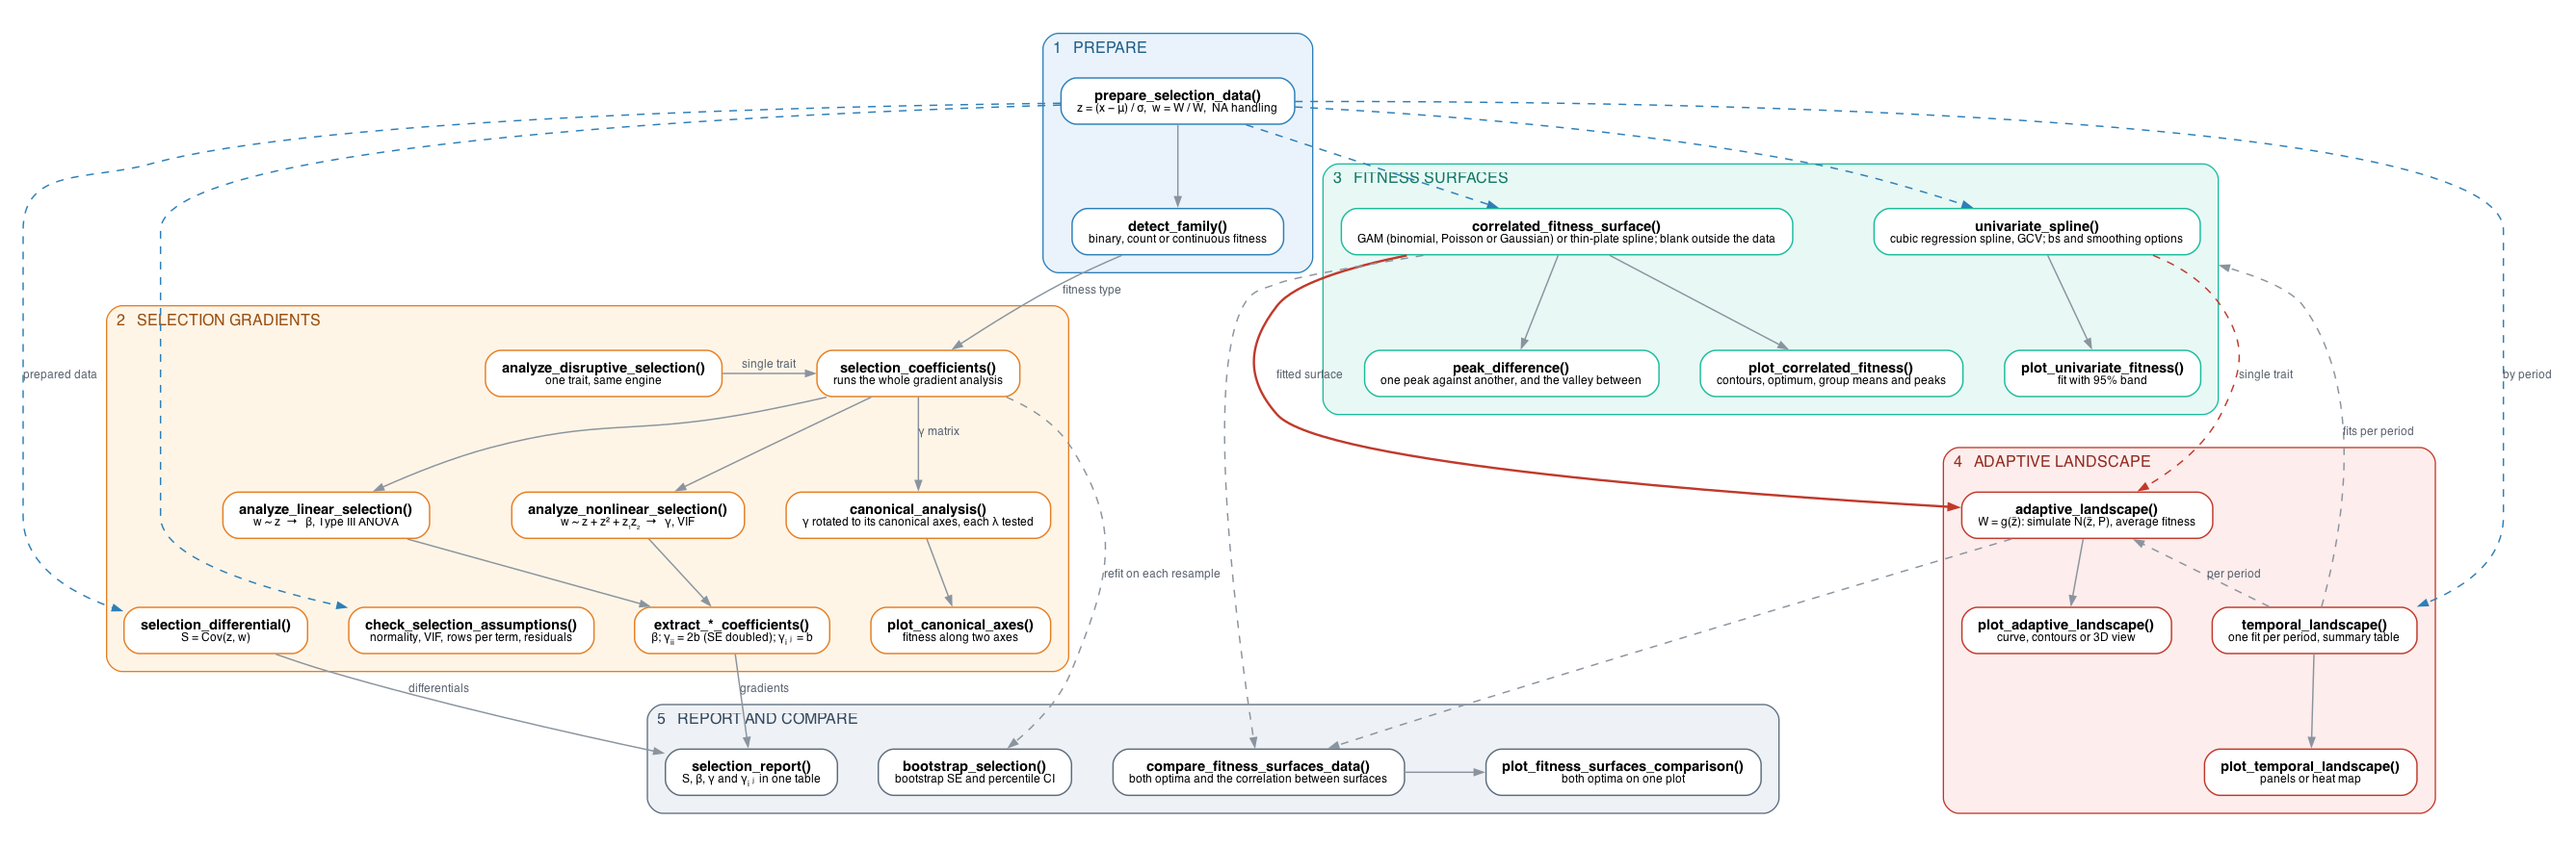
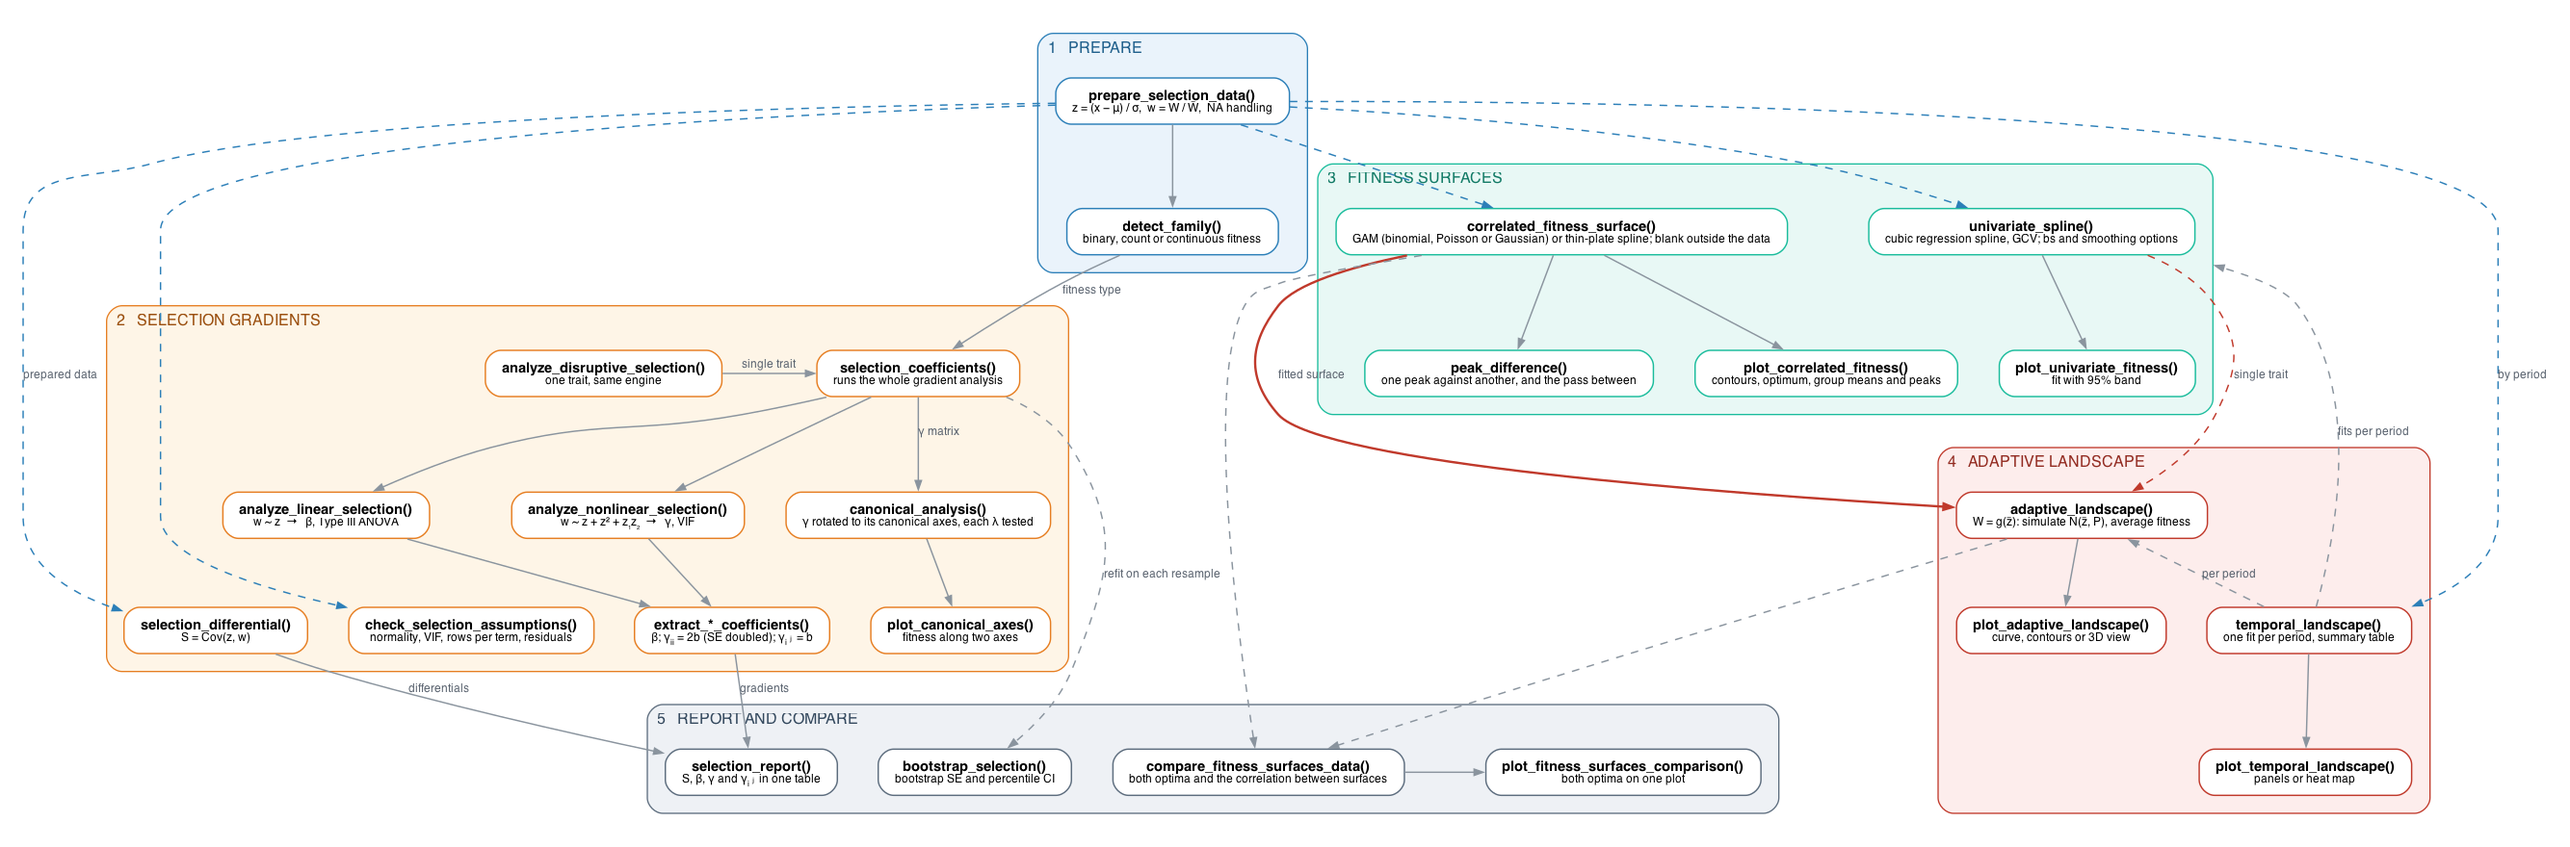
Add a pass route to peak_difference()

diff --git a/NEWS.md b/NEWS.md
@@ -28,7 +28,8 @@ First release.
   `plot_canonical_axes()` draws fitness along them.
 * Standard errors and a band on the GAM fitness surface, drawn with the plots'
   `uncertainty` option, and `peak_difference()` to compare two points of a
-  surface, or each with the dip between them.
+  surface, or each with the pass between them (`route = "line"` for the
+  straight line).
 * The adaptive landscape reports how much of each simulated population falls
   outside the data, and the plot can mark where it does.
 * A `clamp` option on the landscape and the thin-plate surface holds predicted

diff --git a/README.md b/README.md
@@ -71,7 +71,7 @@ highest point is filled for a peak and open otherwise.
 
 A GAM surface carries its standard error and a band. `uncertainty = "se"` or
 `"band"` in the plots draws them, and `peak_difference()` compares the fitted
-fitness at two points, or each with the dip between them.
+fitness at two points, or each with the pass between them.
 
 ## Adaptive landscapes
 
